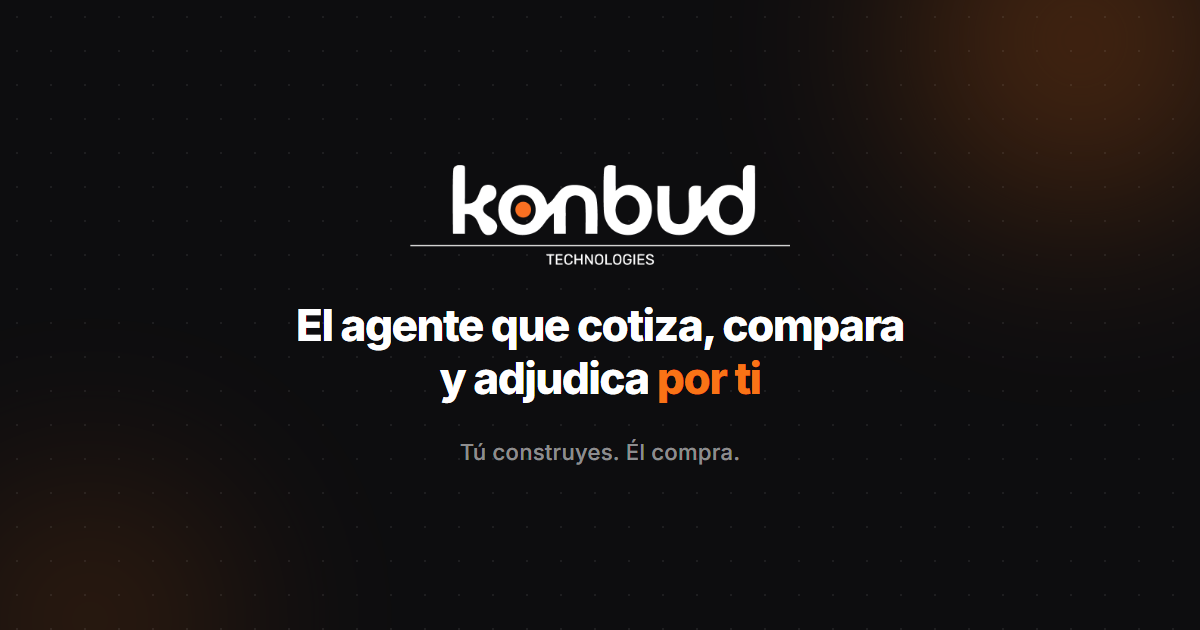
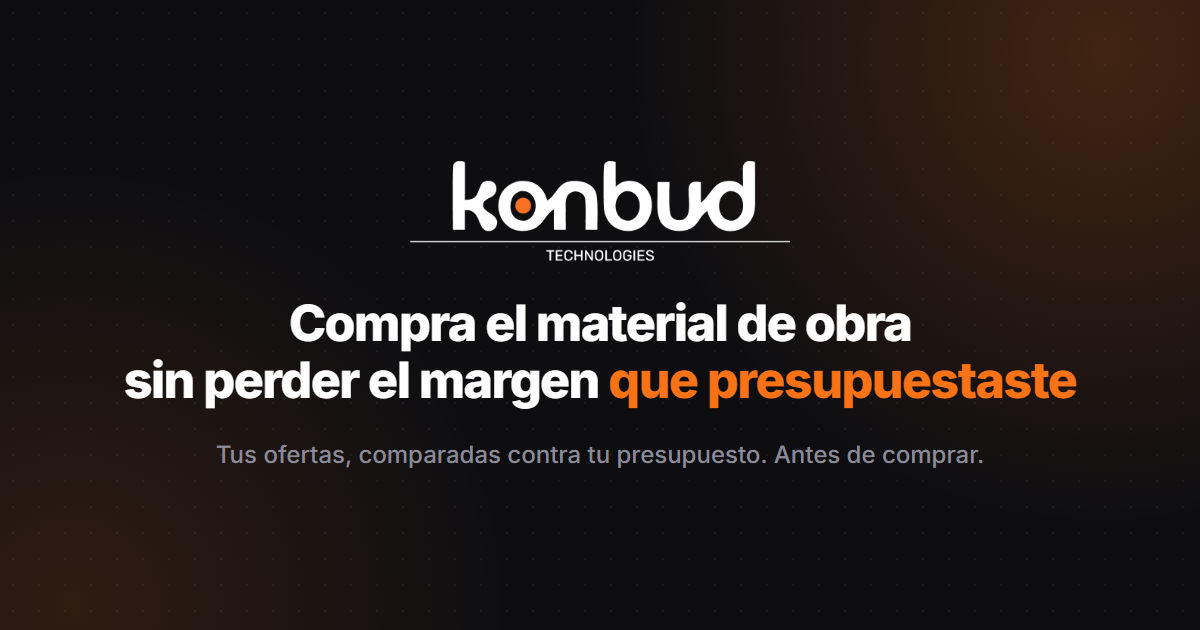
Landing: nueva og-image con el titular de margen (sin 'agente')

Changed region(s): [[0.0925, 0.4825, 0.8942, 0.6635], [0.185, 0.6937, 0.8325, 0.754], [0.3392, 0.2714, 0.6475, 0.4222]]

diff --git a/index.html b/index.html
@@ -14,13 +14,13 @@
   <meta property="og:locale" content="es_ES" />
   <meta property="og:title" content="KONBUD — Compra el material de obra sin perder el margen" />
   <meta property="og:description" content="Software que compara las ofertas de tus proveedores contra tu presupuesto y te avisa de lo que se sale antes de comprar." />
-  <meta property="og:image" content="https://konbud.net/og-image.png" />
+  <meta property="og:image" content="https://konbud.net/og-image.png?v=2" />
   <meta property="og:image:width" content="1200" />
   <meta property="og:image:height" content="630" />
   <meta name="twitter:card" content="summary_large_image" />
   <meta name="twitter:title" content="KONBUD — Compra el material de obra sin perder el margen" />
   <meta name="twitter:description" content="Software que compara las ofertas de tus proveedores contra tu presupuesto y te avisa de lo que se sale antes de comprar." />
-  <meta name="twitter:image" content="https://konbud.net/og-image.png" />
+  <meta name="twitter:image" content="https://konbud.net/og-image.png?v=2" />
 
   <script type="application/ld+json">
   {
